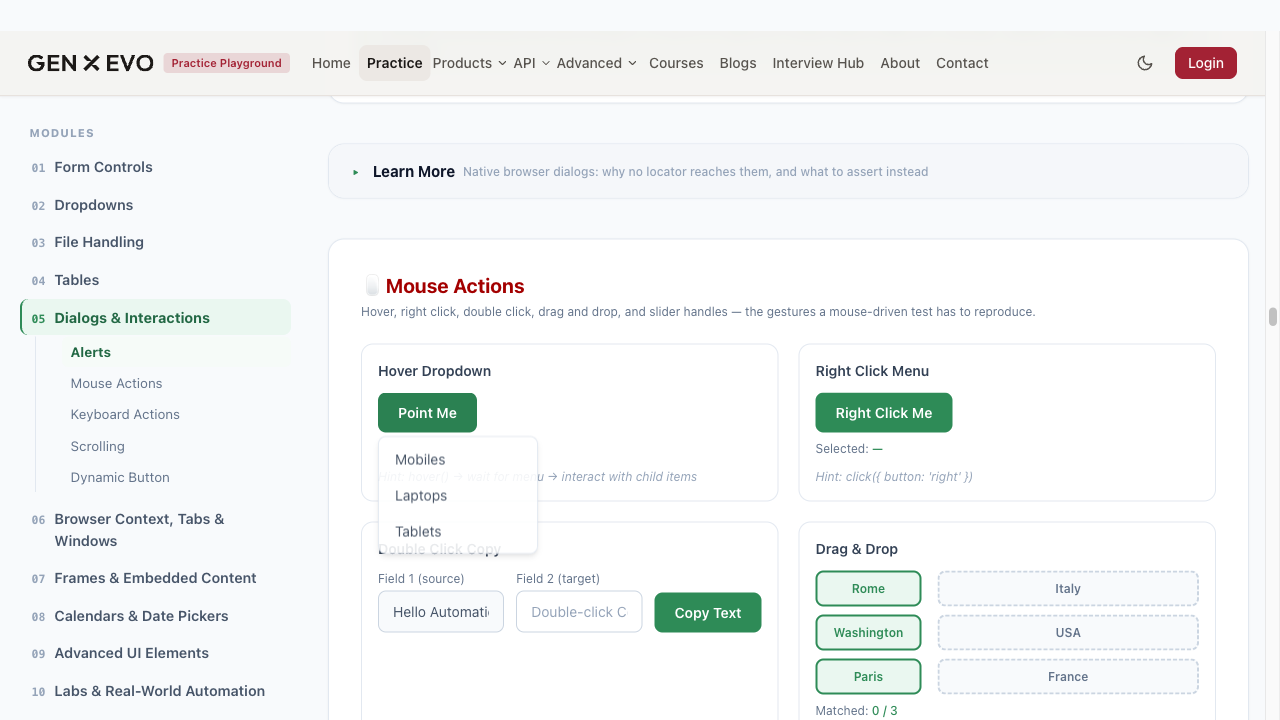
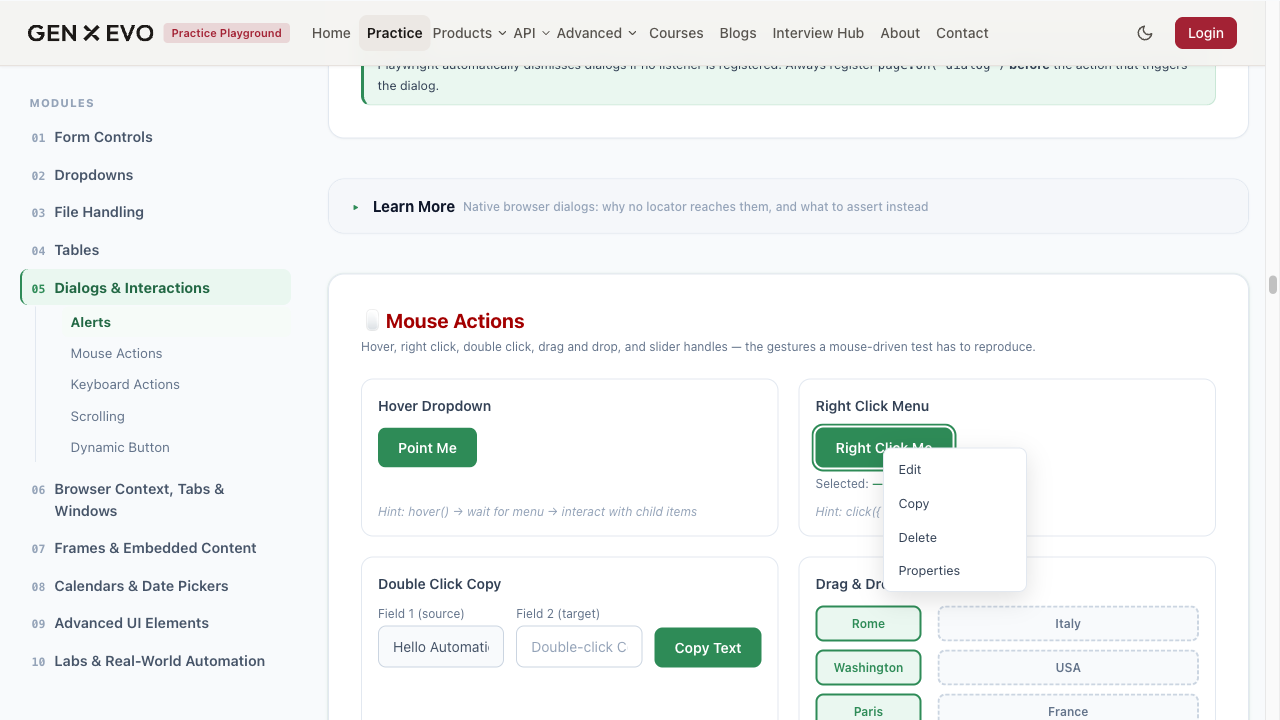
Mouse

diff --git a/tests/Mouse.spec.ts b/tests/Mouse.spec.ts
@@ -1,25 +1,33 @@
-import {test,expect} from '@playwright/test'
+import { test, expect } from "@playwright/test";
 
-test("Hover",async ({page})=>
-{
- await page.goto("https://www.playwrightautomation.com/practice.html#section-mouse")
- const mousehover=page.getByRole("button",{name: "Point Me"})
- await mousehover.hover()
+test("Hover", async ({ page }) => {
+  await page.goto(
+    "https://www.playwrightautomation.com/practice.html#section-mouse",
+  );
+  const mousehover = page.getByRole("button", { name: "Point Me" });
+  await mousehover.hover();
 
- 
- const mobilehover=page.locator("[data-testid='hover-item-mobiles']")
- await mobilehover.hover()
- await expect(mobilehover).toBeVisible()
+  //finding the hower locator using CSS selector
+  const mobilehover = page.locator("[data-testid='hover-item-mobiles']");
+  await mobilehover.hover();
+  await expect(mobilehover).toBeVisible();
 
-// Captures the current viewport and saves it as a file
-await page.screenshot({ path: 'screenshot.png' });
+  await page.waitForTimeout(2000);
+});
 
- await page.waitForTimeout(2000)
+test.only("Right click", async ({ page }) => {
+    await page.goto("https://www.playwrightautomation.com/practice.html#section-mouse")
+    const Mouseright=page.getByRole("button",{name: 'Right Click Me'})
+    const rightmenu=page.getByRole("menuitem",{name:'Edit'})
+   
+    await expect(Mouseright).toBeVisible()
+    await Mouseright.click({button:'right'})
+     await rightmenu.hover()
 
-
-})
-
-test("Right click",async ({page})=>
-{
-    
-})
+    await expect(rightmenu).toBeVisible()
+    page.screenshot({path: './screenshot.png'})
+    await rightmenu.click()
+    await expect(page.locator("#context-menu-result")).toHaveText("Edit")
+    page.screenshot({path: './screenshot1.png'})
+    await page.waitForTimeout(3000)
+});
